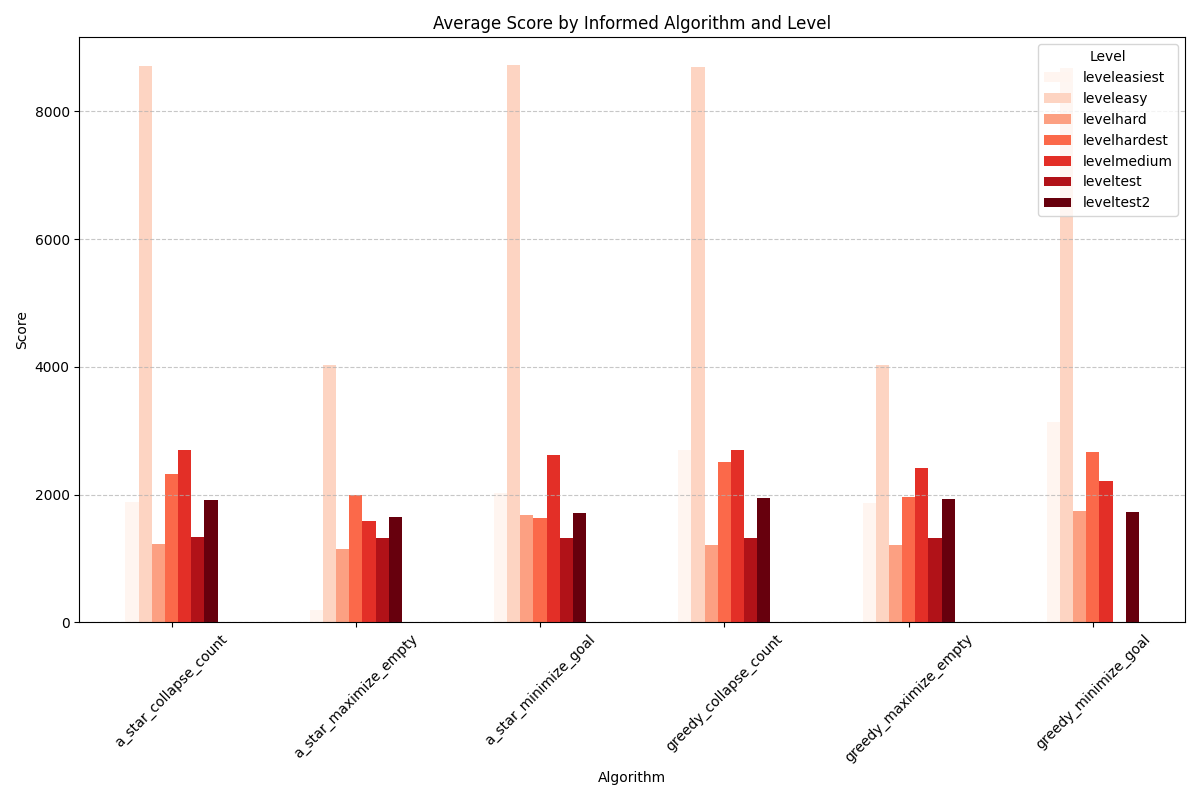
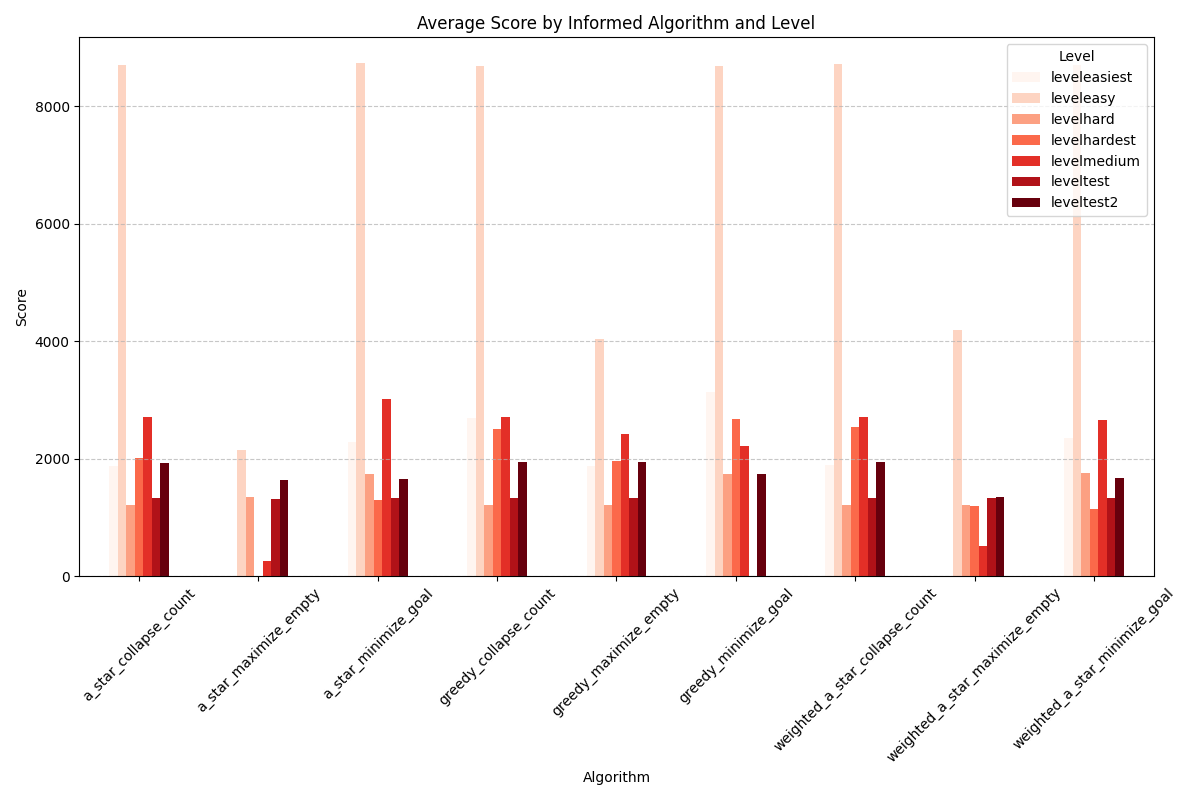
feat:stats

diff --git a/analysis.py b/analysis.py
@@ -9,15 +9,36 @@ os.makedirs("analysis")
 
 df = pd.read_csv("test_results.csv")
 
-df_clean = df.dropna(subset=["Time", "Memory", "Score", "Steps"])
+# Create a copy instead of a view to avoid SettingWithCopyWarning
+df_clean = df.dropna(subset=["Time", "Memory", "Score", "Steps"]).copy()
 
-# Convert Memory from bytes to MB
-df_clean["Memory"] = df_clean["Memory"].astype(float) / (1024 * 1024)
 
-df_clean["Level"] = df_clean["Level"].str.replace("./levels/", "", regex=False).str.replace(".txt", "", regex=False)
+df_clean.loc[:, "Memory"] = df_clean["Memory"].astype(float) / (1024 * 1024)
+
+df_clean.loc[:, "Level"] = df_clean["Level"].str.replace("./levels/", "", regex=False).str.replace(".txt", "", regex=False)
+
+df_clean = df_clean.copy()  
+
+a_star_mask = df_clean["Algorithm"].str.contains("a_star", na=False)
+
+def process_a_star(row):
+    if "a_star" in str(row["Algorithm"]):
+        weight = float(row.get("Weight", 1.0))
+        if weight == 1.0:
+            return row["Algorithm"] 
+        elif weight == 1.5:
+
+            return "weighted_" + row["Algorithm"]
+        else:
+            return None
+    return row["Algorithm"]
+df_clean["Algorithm"] = df_clean.apply(process_a_star, axis=1)
+df_clean = df_clean[df_clean["Algorithm"].notna()]
+print(df_clean)
 uninformed_algorithms = ["depth_first", "breadth_first", "iterative_deepening"]
 df_uninformed = df_clean[df_clean["Algorithm"].isin(uninformed_algorithms)]
 df_informed = df_clean[~df_clean["Algorithm"].isin(uninformed_algorithms)]
+
 def plot_metrics(metric: str, ylabel: str, base_filename: str):
     for df_group, group_name, cmap in [
         (df_uninformed, "Uninformed", "Blues"),
@@ -36,12 +57,13 @@ def plot_metrics(metric: str, ylabel: str, base_filename: str):
         ax.grid(axis='y', linestyle="--", alpha=0.7)
         ax.set_xticklabels(ax.get_xticklabels(), rotation=45)
         
-
         if metric == "Steps":
             import matplotlib.ticker as ticker
             ax.yaxis.set_major_locator(ticker.MaxNLocator(integer=True))
             
-        ax.legend(title="Level")
+        # Position legend in top right corner
+        ax.legend(title="Level", loc='upper right')
+        
         plt.tight_layout()
         plt.savefig(os.path.join("analysis", f"{group_name.lower()}_{base_filename}"))
         plt.close()
